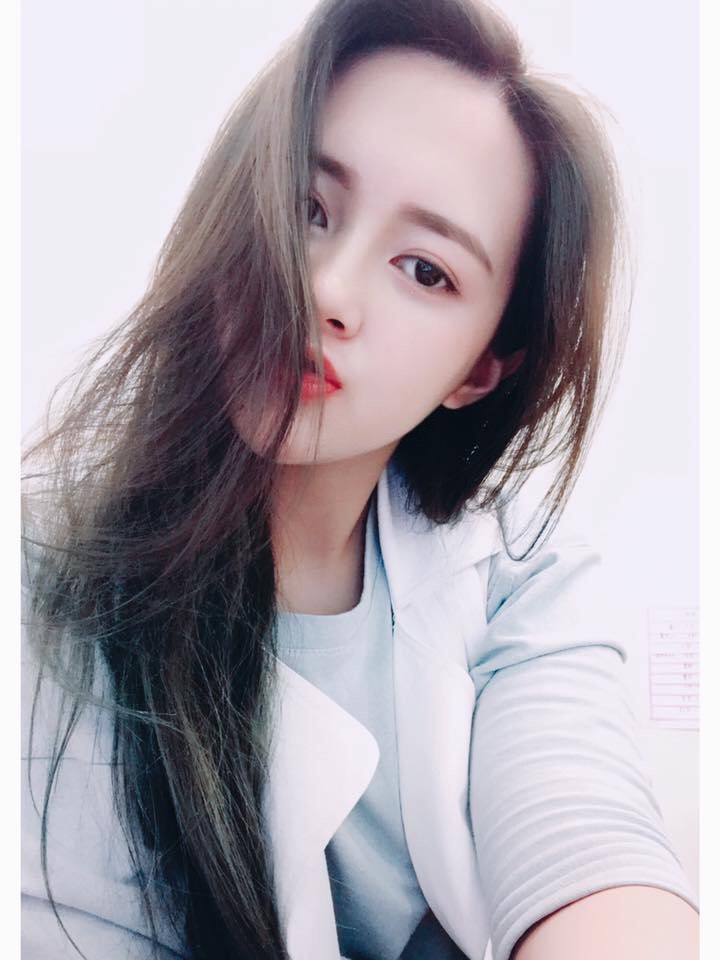
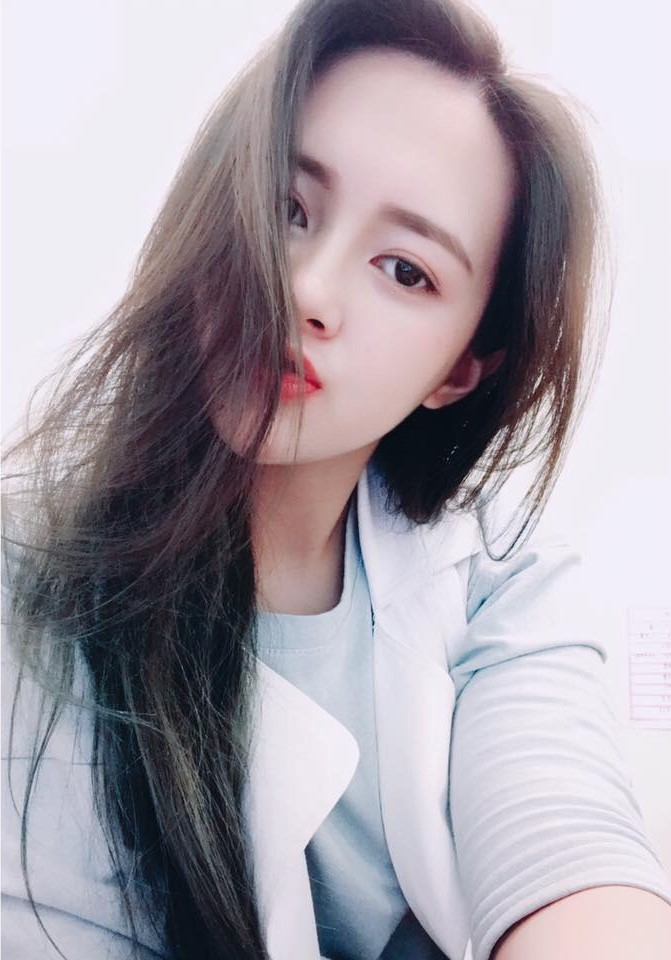
Update

diff --git a/index.html b/index.html
@@ -284,10 +284,10 @@
             <h3>選妃專區</h3>
                         <div class="chose d_flex"> 
                             <div class="image">
-                                <a href="https://line.me/ti/p/tPIrTDGqsU" target="_blank">
+                                <a href="https://line.me/ti/p/qAT1Wn8fUG" target="_blank">
                                     <div class="stm-plus">
                                     </div>
-                                        <img src="image/image001.jpg" class="img-responsive wp-post-image" alt="">
+                                        <img src="image/image001.png" class="img-responsive wp-post-image" alt="">
                                     <!-- <div class="info">
                                         <p>苡軒</p>
                                     </div> -->
@@ -398,10 +398,10 @@
                                     </a>    
                                 </div>
                                 <div class="image">
-                                    <a href="https://line.me/ti/p/tPIrTDGqsU" target="_blank">
+                                    <a href="https://line.me/ti/p/qAT1Wn8fUG" target="_blank">
                                         <div class="stm-plus">
                                         </div> 
-                                        <img src="image/image018.jpg" class="img-responsive wp-post-image" alt="">
+                                        <img src="image/image018.png" class="img-responsive wp-post-image" alt="">
                                         <!-- <div class="info">
                                             <p>-</p>
                                         </div> -->
@@ -471,24 +471,24 @@
                         </div> -->
                     </a> 
                 </div> 
-                <div class="image" style="display: none;">
+                <div class="image space" style="visibility: hidden;">
                     <a href="#" target="_blank">
                         <div class="stm-plus">
                         </div> 
                         <img src="image/white.jpg" class="img-responsive wp-post-image" alt="">
-                        <div class="info">
+                        <!-- <div class="info">
                             <p>-</p>
-                        </div>
+                        </div> -->
                     </a>    
                 </div>
-                <div class="image" style="display: none;">
+                <div class="image space" style="visibility: hidden;">
                     <a href="#" target="_blank">
                         <div class="stm-plus">
                         </div> 
                         <img src="image/white.jpg" class="img-responsive wp-post-image" alt="">
-                        <div class="info">
+                        <!-- <div class="info">
                             <p>-</p>
-                        </div>
+                        </div> -->
                     </a>
                 </div>
     </div>  

diff --git a/style.css b/style.css
@@ -700,6 +700,7 @@ a.free{
     position: relative;
     margin: 30px 15px 14px;
     overflow: hidden;
+    text-align: center;
 }
 
 .image>a{
@@ -861,8 +862,8 @@ a.free{
     }
 
     .image>a>img{
-        width: 100%;
-        height: auto;
+        width: auto;
+        height: 100%;
         background: #cacaca;
     }
 
@@ -873,6 +874,10 @@ a.free{
 
     .carousel.slide.btm {
         min-height: 435px;
+    }
+
+    .space{
+        display: none;
     }
 }
 
